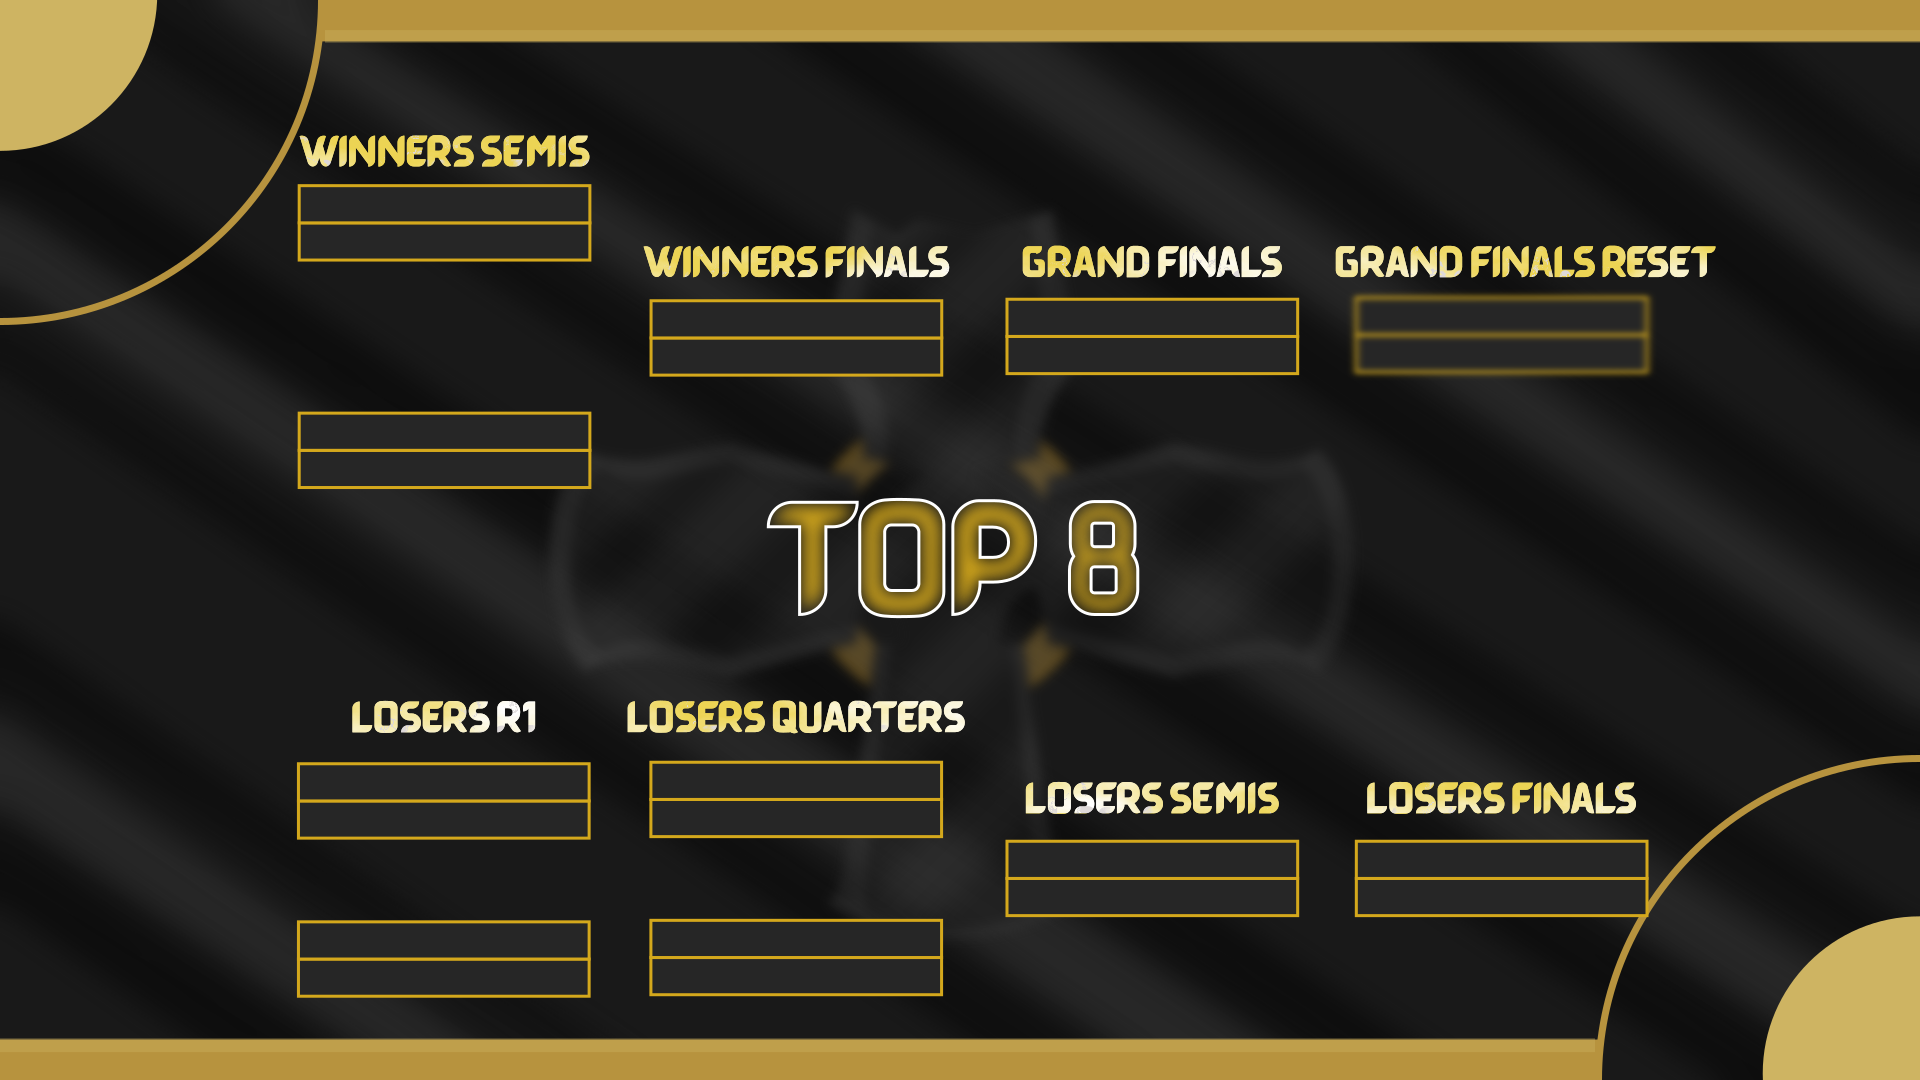
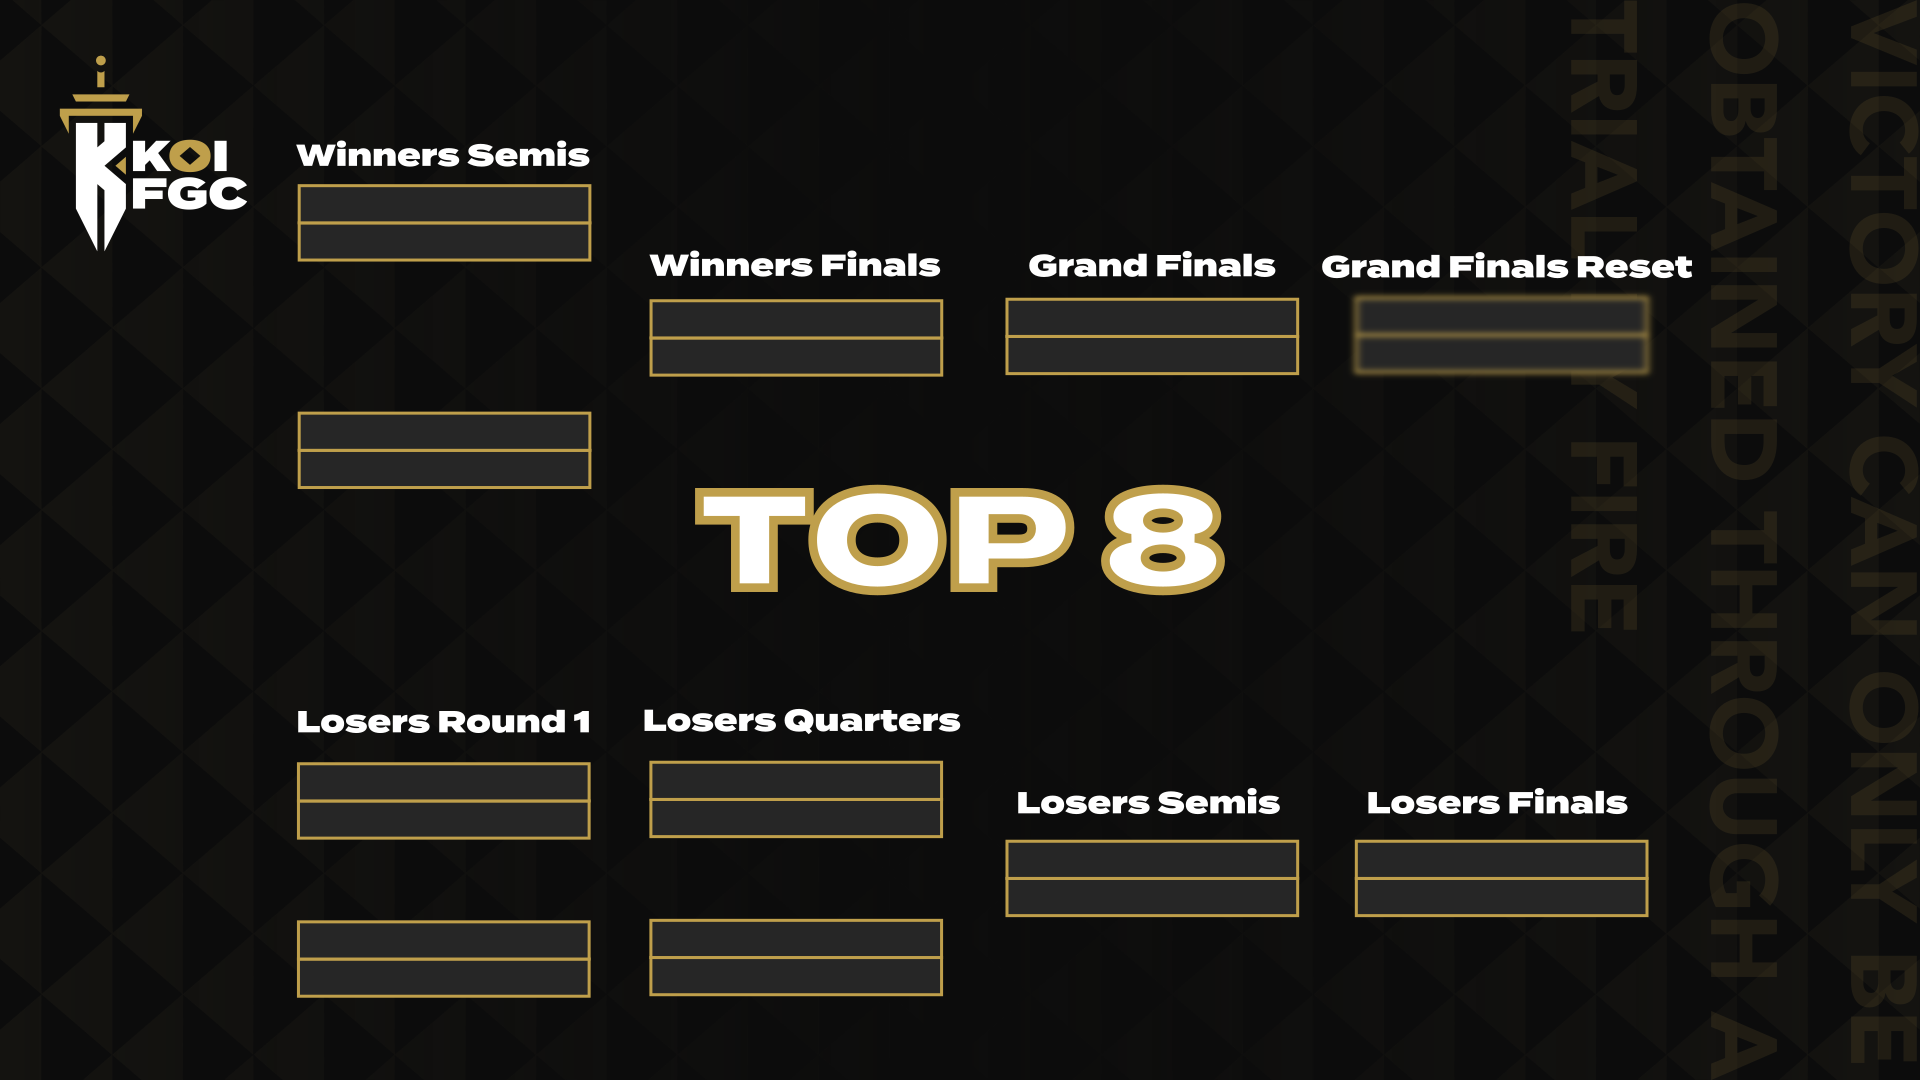
Patchnotes 12/24 - Better than Strive Patchnotes
Added New Top 8 Banner
Adjusted Koi Scoreboard so that the match text is bigger and cooler
Added Ghostface
Removed Ghostface

Introducing new System Mechanic: Newty

diff --git a/TournamentStreamHelper-5.81/layout/scoreboard/index.css b/TournamentStreamHelper-5.81/layout/scoreboard/index.css
@@ -1230,15 +1230,17 @@ body {
 }
 
 .koi .phase {
-  font-family: "Termina Test";
-  color: #3f3f46;
+  font-family: 'Termina Test';
+  font-weight: bolder;
+  color: #000000;
   text-align: center;
-  font-size: 24px;
+  font-size: 30px;
 }
 
 .match {
   font-family: "Termina Test";
-  font-size: 24px;
+  font-size: 28px;
+  color: #000000;
   letter-spacing: 2px;
   width: 100%;
 }
@@ -1251,7 +1253,8 @@ body {
 .koi .match {
   font-family: "Termina Test";
   text-align: center;
-  color:#3f3f46;
+  font-size: 28px;
+  color: #000000;
 }
 
 .fgc .info.container.bottom {
@@ -1310,11 +1313,12 @@ body {
 }
 
 .koi .info.container.top{
+  font-family: Termina Test;
   bottom: unset;
-  top: 0px;
+  top: -5px;
   border-top-right-radius: 0;
   border-top-left-radius: 0;
-  height: 40px;
+  height: 60px;
   width: 300px;
   left: 50%;
 }
